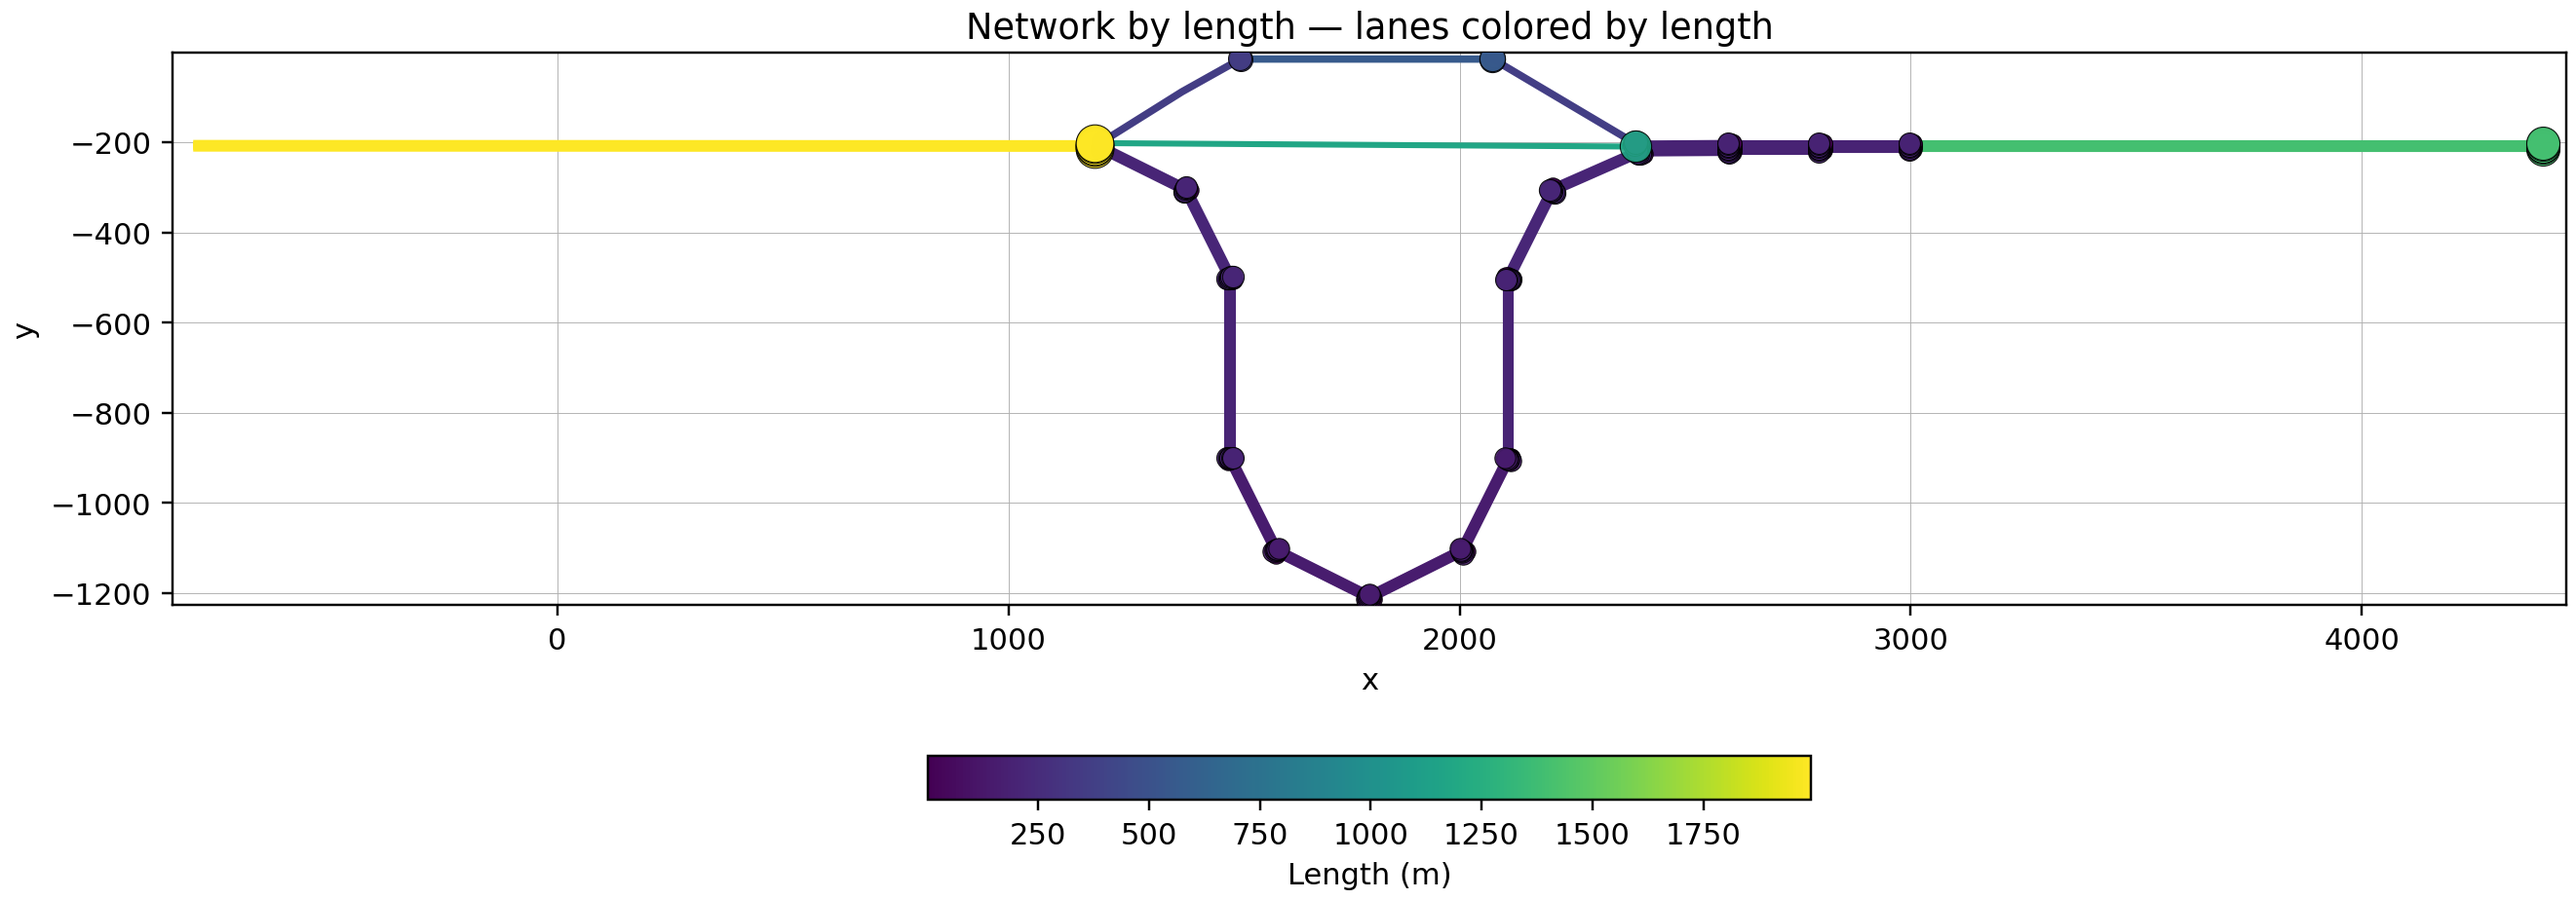
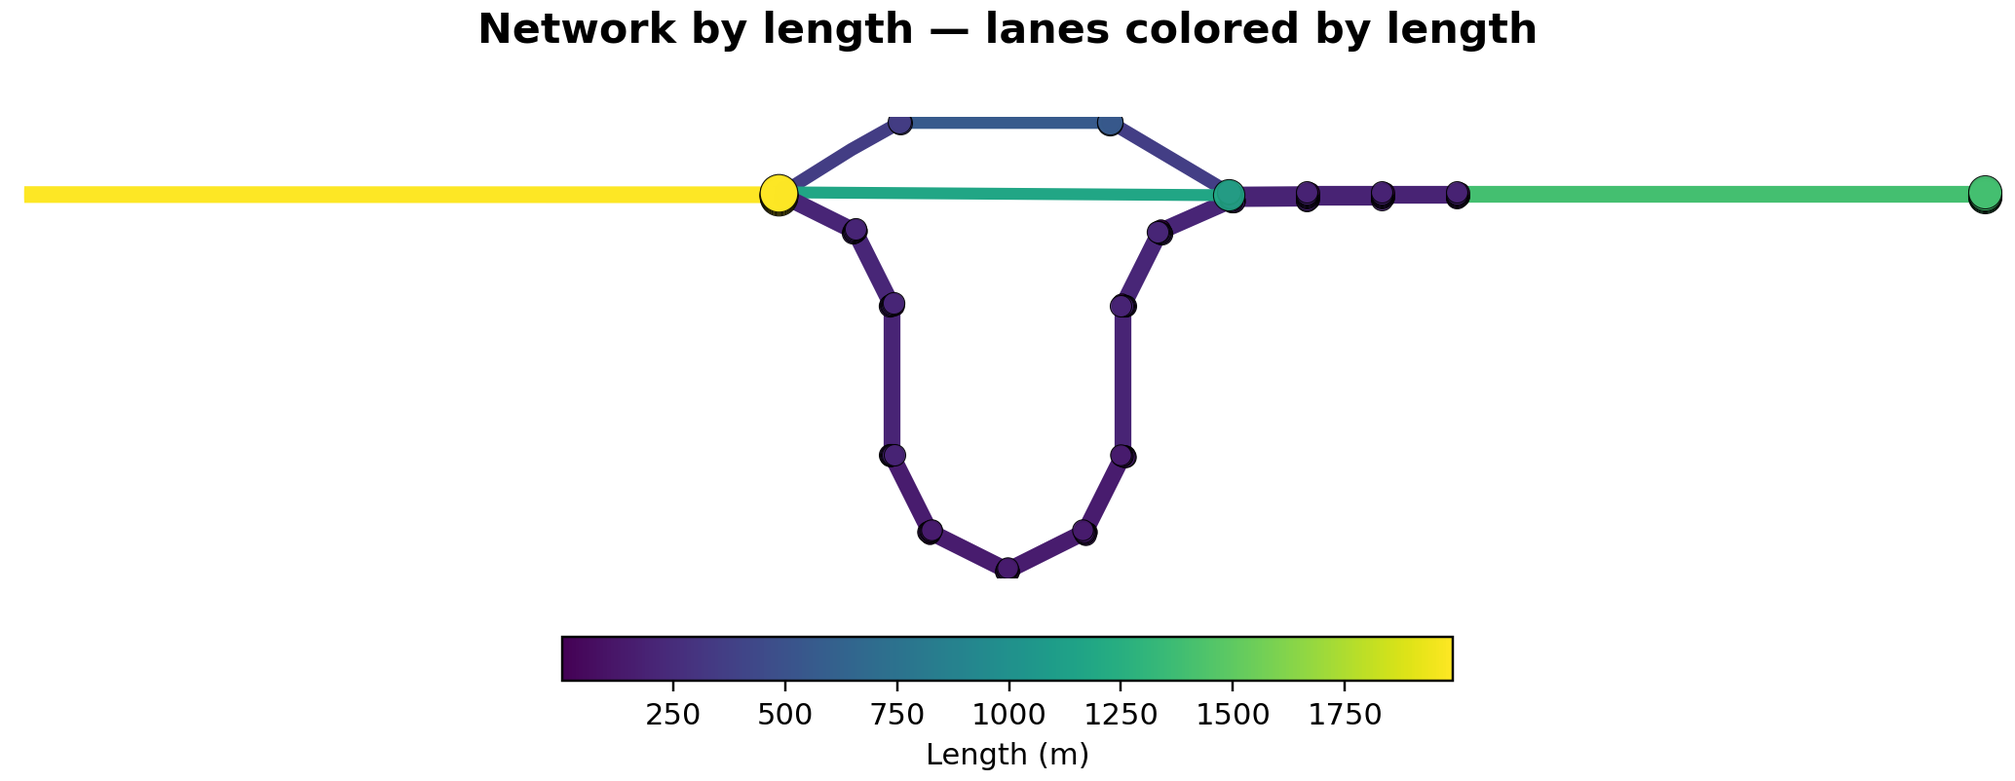
imprv network visualization

diff --git a/network_analysis/analysis_scripts/visualise_network.py b/network_analysis/analysis_scripts/visualise_network.py
@@ -27,7 +27,7 @@ OUT_DIR.mkdir(parents=True, exist_ok=True)
 INCLUDE_INTERNAL = True
 
 # Visual styling
-LINE_WIDTH = 2.0
+LINE_WIDTH = 4
 
 SHOW_END_CIRCLES = True
 END_CIRCLE_EDGE = "black"
@@ -162,10 +162,12 @@ def add_horizontal_colorbar(fig, ax, mappable, label: str):
         ax=ax,
         orientation="horizontal",
         location="bottom" if COLORBAR_POSITION.lower() == "bottom" else "top",
-        fraction=0.045,
-        pad=0.06,
+        fraction=0.05,
+        pad=0.04,
     )
-    cbar.set_label(label)
+    cbar.set_label(label, fontsize=50, fontweight="bold")
+
+    cbar.ax.tick_params(labelsize=50)
     return cbar
 
 def _all_bounds(lanes):
@@ -210,7 +212,7 @@ def plot_attribute(lanes, attr_name: str, cmap_name: str, out_path: Path, title_
     fig_height = max(6.0, base_width * data_aspect)
 
     # Use constrained_layout to avoid colorbar/tight_layout conflicts
-    fig, ax = plt.subplots(figsize=(base_width, fig_height), constrained_layout=True)
+    fig, ax = plt.subplots(figsize=(base_width, fig_height))
 
     # ----- draw lanes -----
     for ln, val in zip(lanes, vals):
@@ -230,10 +232,11 @@ def plot_attribute(lanes, attr_name: str, cmap_name: str, out_path: Path, title_
     ax.set_ylim(ymin - pad_y, ymax + pad_y)
     ax.set_aspect("equal", adjustable="box")
 
-    ax.set_xlabel("x")
+    """ax.set_xlabel("x")
     ax.set_ylabel("y")
-    ax.grid(True, linewidth=0.3)
-    ax.set_title(f"{title_prefix} — lanes colored by {attr_name}", pad=5)
+    ax.grid(True, linewidth=0.3)"""
+    ax.set_axis_off()
+    ax.set_title(f"{title_prefix} — lanes colored by {attr_name}", pad=25, fontsize=14, fontweight="bold")
 
     sm = mpl.cm.ScalarMappable(cmap=cmap, norm=norm)
     sm.set_array([])
